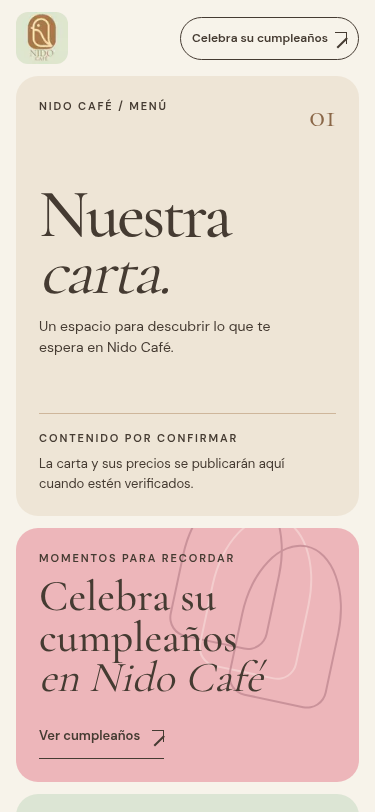
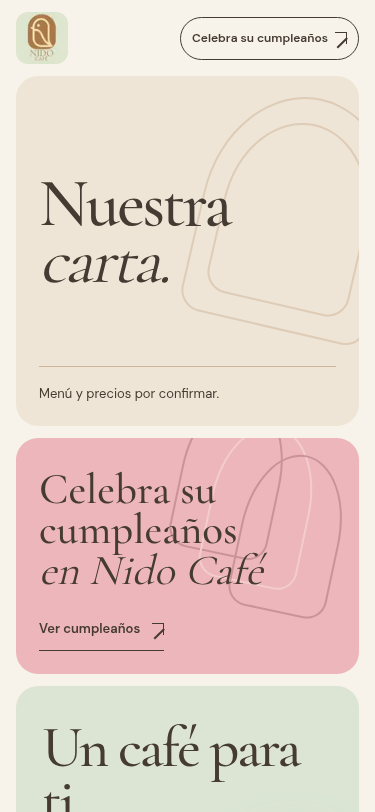
Simplify Nido homepage copy

diff --git a/app/globals.css b/app/globals.css
@@ -24,7 +24,7 @@ a:focus-visible { outline: 3px solid #49311f; outline-offset: 4px; border-radius
 .skip-link:focus { top: 8px; }
 .eyebrow { font-size: 11px; font-weight: 600; line-height: 1.4; letter-spacing: .17em; text-transform: uppercase; }
 h1, h2, p { margin-top: 0; }
-h1, h2, .intro-line, .footer-name { font-family: "Cormorant Garamond", Georgia, serif; font-weight: 500; }
+h1, h2, .footer-name { font-family: "Cormorant Garamond", Georgia, serif; font-weight: 500; }
 h1 em, h2 em { font-weight: 400; }
 
 .site-header { background: var(--cream); }
@@ -45,40 +45,27 @@ h1 em, h2 em { font-weight: 400; }
 .header-cta span[aria-hidden], .button span[aria-hidden], .text-link span[aria-hidden] { display: inline-block; position: relative; flex: 0 0 12px; width: 12px; height: 12px; border-top: 1.5px solid currentColor; border-right: 1.5px solid currentColor; font-size: 0; line-height: 0; }
 .header-cta span[aria-hidden]::after, .button span[aria-hidden]::after, .text-link span[aria-hidden]::after { content: ""; position: absolute; top: 4px; right: -1px; width: 14px; height: 1.5px; background: currentColor; transform: rotate(-45deg); transform-origin: right center; }
 
-.page-intro { min-height: 63px; display: flex; justify-content: space-between; align-items: center; }
-.page-intro p { margin: 0; }
-.intro-line { font-size: 25px; }
-.intro-line span { font-style: italic; }
-
 .mobile-menu, .mobile-hero-title { display: none; }
 
 .bento { display: grid; grid-template-columns: minmax(0, 1.75fr) minmax(330px, 1fr); grid-template-rows: repeat(2, minmax(280px, 304px)); gap: 15px; }
 .bento article { position: relative; overflow: hidden; border-radius: 26px; }
 .bento-main { grid-row: span 2; background: var(--sage); padding: clamp(32px, 4vw, 62px); display: flex; align-items: center; }
 .hero-copy { position: relative; z-index: 2; width: 65%; align-self: center; }
-.hero-copy .eyebrow { margin-bottom: 26px; }
-.hero-copy h1 { font-size: clamp(59px, 5.7vw, 94px); line-height: .91; letter-spacing: -.04em; margin-bottom: 25px; }
-.hero-copy h1 em { white-space: nowrap; }
-.hero-copy > p:not(.eyebrow) { max-width: 330px; font-size: 15px; line-height: 1.65; margin-bottom: 26px; }
+.hero-copy h1 { font-size: clamp(56px, 5vw, 78px); line-height: .91; letter-spacing: -.04em; margin-bottom: 0; }
+.hero-copy h1 em { white-space: normal; }
 .hero-art { position: absolute; right: -4%; top: 10%; height: 83%; width: 48%; transform: rotate(6deg); }
 .hero-art-frame { width: 100%; height: 100%; position: relative; overflow: hidden; border-radius: 49% 49% 28px 28px; box-shadow: 0 22px 50px #5c654b22; background: #e4ead9; }
 .hero-logo { object-fit: cover; object-position: center; transform: scale(1.15); }
-.hero-index { position: absolute; bottom: 25px; left: clamp(32px, 4vw, 62px); font-size: 10px; letter-spacing: .17em; font-weight: 600; }
-
 .bento-menu { background: #eee5d6; padding: 27px 30px 30px; display: flex; flex-direction: column; justify-content: space-between; }
-.card-top { display: flex; justify-content: space-between; align-items: start; position: relative; z-index: 1; }
-.card-top .eyebrow { max-width: 230px; }
 .menu-ornament { position: absolute; width: 200px; height: 200px; right: 8%; top: 16%; border: 1px solid #a77a5070; border-radius: 50% 50% 12px 12px; display: grid; place-items: center; transform: rotate(9deg); opacity: .6; }
 .menu-ornament::before { content: ""; position: absolute; inset: 17px; border: 1px solid #a77a5070; border-radius: inherit; }
 .menu-ornament span { font-family: "Cormorant Garamond", Georgia, serif; font-size: 120px; font-style: italic; color: var(--brown); line-height: 1; opacity: .7; }
-.card-bottom { position: relative; display: flex; justify-content: space-between; align-items: end; gap: 10px; }
-.card-bottom h2 { margin-bottom: 3px; font-size: clamp(40px, 3.6vw, 56px); line-height: .95; }
-.card-bottom p { font-size: 12px; margin: 0; max-width: 155px; line-height: 1.4; }
+.card-bottom { position: relative; display: flex; justify-content: space-between; align-items: end; gap: 10px; margin-top: auto; }
+.card-bottom h2 { margin-bottom: 0; font-size: clamp(40px, 3.6vw, 56px); line-height: .95; }
 .card-bottom .button { padding-inline: 17px; }
 
 .bento-birthday { background: var(--blush); padding: 32px; display: flex; align-items: end; }
 .birthday-content { position: relative; z-index: 1; max-width: 320px; }
-.birthday-content .eyebrow { margin-bottom: 10px; }
 .birthday-content h2 { font-size: clamp(39px, 3.35vw, 54px); line-height: .94; margin-bottom: 17px; }
 .birthday-content h2 em { display: block; }
 .birthday-mark { position: absolute; right: 6%; top: -34px; width: 190px; height: 200px; transform: rotate(12deg); opacity: .66; }
@@ -88,28 +75,24 @@ h1 em, h2 em { font-weight: 400; }
 .text-link { display: inline-flex; align-items: center; gap: 12px; min-height: 44px; border-bottom: 1px solid currentColor; font-size: 13px; font-weight: 600; }
 .text-link:hover { gap: 18px; }
 
-.story-section { padding-block: 104px 91px; display: grid; grid-template-columns: 1fr 1fr; gap: 60px; align-items: end; }
-.story-section h2 { font-size: clamp(56px, 6vw, 88px); max-width: 670px; line-height: .95; margin-bottom: 0; }
-.story-section > p { font-size: 17px; line-height: 1.8; max-width: 490px; margin: 0 0 5px auto; }
-.lower-grid { display: grid; grid-template-columns: 1fr 1fr; gap: 15px; margin-bottom: 96px; }
-.lower-card { min-height: 315px; border-radius: 26px; padding: 37px; display: flex; flex-direction: column; align-items: flex-start; }
+.lower-grid { display: grid; grid-template-columns: 1fr 1fr; gap: 15px; margin-block: 15px 96px; }
+.lower-card { position: relative; overflow: hidden; min-height: 270px; border-radius: 26px; padding: 37px; display: flex; flex-direction: column; align-items: flex-start; }
+.lower-card > * { position: relative; z-index: 1; }
+.lower-card::after { content: ""; position: absolute; width: 190px; height: 230px; right: 10%; top: 13%; border: 2px solid currentColor; border-radius: 50% 50% 24px 24px; transform: rotate(13deg); opacity: .18; }
 .lower-card h2 { font-size: clamp(46px, 4.5vw, 68px); line-height: .95; max-width: 400px; margin: auto 0 12px; }
-.lower-card p { font-size: 14px; max-width: 350px; line-height: 1.65; margin: 0; }
 .play-card { background: var(--tile); }
 .visit-card { background: #e9e0d1; }
 .visit-card .text-link { margin-top: 10px; }
 
 .site-footer { background: #e8e2d7; }
-.footer-inner { min-height: 156px; display: flex; justify-content: space-between; align-items: center; gap: 30px; }
+.footer-inner { min-height: 114px; display: flex; justify-content: space-between; align-items: center; gap: 30px; }
 .footer-name { font-size: 32px; margin-bottom: 0; }
-.footer-inner p:not(.footer-name) { font-size: 13px; margin: 0; }
 .footer-links { display: flex; gap: 26px; font-size: 13px; }
 
 .detail-page { min-height: calc(100svh - 252px); padding-block: 90px 110px; }
 .detail-page h1 { font-size: clamp(72px, 9vw, 130px); line-height: .9; margin: 20px 0; }
-.detail-lead { font-size: clamp(17px, 2vw, 22px); line-height: 1.5; max-width: 690px; }
 .pending-card { border-radius: 26px; background: var(--sage); padding: 32px; max-width: 690px; margin: 44px 0 32px; }
-.pending-card p { margin: 16px 0 0; line-height: 1.6; }
+.pending-card p { margin: 0; line-height: 1.6; }
 .pending-birthday { background: var(--blush); }
 
 @media (max-width: 1080px) {
@@ -133,18 +116,14 @@ h1 em, h2 em { font-weight: 400; }
   .header-cta { min-height: 43px; font-size: 12px; padding: 10px 14px; gap: 7px; }
   .header-menu-cta { display: none; }
   .header-birthday-cta { display: inline-flex; }
-  .page-intro { display: none; }
-  .mobile-menu { display: flex; flex-direction: column; min-height: 450px; margin-bottom: 12px; padding: 27px; background: #eee5d6; border-radius: 22px; }
-  .mobile-menu-top { display: flex; justify-content: space-between; align-items: start; }
-  .mobile-menu-top p { margin: 0; }
-  .mobile-menu-top > span { font-family: "Cormorant Garamond", Georgia, serif; font-size: 33px; line-height: 1; color: #8a6748; }
-  .mobile-menu-body { margin: auto 0; }
-  .mobile-menu-body h1 { font-size: clamp(65px, 13vw, 90px); line-height: .84; letter-spacing: -.04em; margin-bottom: 16px; }
+  .mobile-menu { position: relative; overflow: hidden; display: flex; flex-direction: column; min-height: 350px; margin-bottom: 12px; padding: 27px; background: #eee5d6; border-radius: 22px; }
+  .mobile-menu::before, .mobile-menu::after { content: ""; position: absolute; border: 2px solid #a77a50; border-radius: 50% 50% 22px 22px; transform: rotate(13deg); opacity: .23; }
+  .mobile-menu::before { width: 190px; height: 235px; right: -32px; top: 20px; }
+  .mobile-menu::after { width: 145px; height: 185px; right: -8px; top: 46px; }
+  .mobile-menu-body { position: relative; z-index: 1; margin: auto 0; }
+  .mobile-menu-body h1 { font-size: clamp(65px, 13vw, 90px); line-height: .84; letter-spacing: -.04em; margin-bottom: 0; }
   .mobile-menu-body h1 em { display: block; }
-  .mobile-menu-body > p { max-width: 250px; font-size: 14px; line-height: 1.5; margin: 0; }
-  .mobile-menu-pending { border-top: 1px solid #a77a5070; padding-top: 17px; }
-  .mobile-menu-pending .eyebrow { margin-bottom: 8px; }
-  .mobile-menu-pending p:last-child { max-width: 270px; margin: 0; font-size: 13px; line-height: 1.5; }
+  .mobile-menu-pending { position: relative; z-index: 1; border-top: 1px solid #a77a5070; padding-top: 17px; margin: 0; font-size: 13px; line-height: 1.5; }
   .bento { display: flex; flex-direction: column; gap: 12px; }
   .bento article { border-radius: 22px; }
   .bento-menu { display: none; }
@@ -156,28 +135,24 @@ h1 em, h2 em { font-weight: 400; }
   .bento-birthday { order: 1; min-height: 231px; padding: 23px; }
   .birthday-content h2 { font-size: 43px; max-width: 270px; }
   .birthday-mark { right: -2%; opacity: .36; }
-  .bento-main { order: 2; min-height: 430px; padding: 36px 26px; }
+  .bento-main { order: 2; min-height: 340px; padding: 36px 26px; }
   .hero-copy { width: 85%; align-self: start; }
-  .hero-copy .eyebrow { margin-bottom: 23px; }
   .hero-copy h1 { display: none; }
-  .mobile-hero-title { display: block; font-size: clamp(59px, 11vw, 86px); line-height: .91; letter-spacing: -.04em; margin-bottom: 25px; }
+  .mobile-hero-title { display: block; font-size: clamp(59px, 11vw, 86px); line-height: .91; letter-spacing: -.04em; margin-bottom: 0; }
   .hero-art { top: auto; bottom: -7%; right: -8%; height: 70%; width: 56%; opacity: .35; }
-  .hero-index { left: 26px; bottom: 20px; }
-  .story-section { display: block; padding-block: 75px 55px; }
-  .story-section h2 { font-size: 62px; margin-bottom: 22px; }
-  .story-section > p { font-size: 16px; margin: 0; }
-  .lower-grid { grid-template-columns: 1fr; gap: 12px; margin-bottom: 70px; }
-  .lower-card { min-height: 265px; padding: 27px; }
-  .lower-card h2 { font-size: 58px; }
+  .lower-grid { grid-template-columns: 1fr; gap: 12px; margin-block: 12px 70px; }
+  .lower-card { min-height: 220px; padding: 27px; }
+  .lower-card h2 { font-size: 55px; }
   .footer-inner { padding-block: 36px; display: block; }
   .footer-links { margin-top: 27px; flex-wrap: wrap; }
   .detail-page { padding-block: 64px 86px; }
+  .detail-page h1 { font-size: clamp(56px, 9vw, 82px); }
 }
 
 @media (max-width: 390px) {
   .brand img { width: 52px; height: 52px; }
   .header-cta { padding-inline: 11px; }
-  .mobile-menu { min-height: 440px; padding: 23px; }
+  .mobile-menu { min-height: 350px; padding: 23px; }
   .mobile-menu-body h1 { font-size: 68px; }
   .bento-birthday { min-height: 236px; }
   .mobile-hero-title { font-size: 58px; }

diff --git a/app/page.tsx b/app/page.tsx
@@ -4,51 +4,30 @@ import Link from "next/link";
 export default function HomePage() {
   return (
     <main id="contenido">
-      <div className="shell page-intro">
-        <p className="eyebrow">Un espacio para compartir</p>
-        <p className="intro-line">Café para ti. Juego para ellos. <span>Un momento para todos.</span></p>
-      </div>
-
       <section className="shell mobile-menu" aria-labelledby="mobile-menu-title">
-        <div className="mobile-menu-top">
-          <p className="eyebrow">Nido Café / Menú</p>
-          <span aria-hidden="true">01</span>
-        </div>
         <div className="mobile-menu-body">
           <h1 id="mobile-menu-title">Nuestra <em>carta.</em></h1>
-          <p>Un espacio para descubrir lo que te espera en Nido Café.</p>
         </div>
-        <div className="mobile-menu-pending">
-          <p className="eyebrow">Contenido por confirmar</p>
-          <p>La carta y sus precios se publicarán aquí cuando estén verificados.</p>
-        </div>
+        <p className="mobile-menu-pending">Menú y precios por confirmar.</p>
       </section>
 
       <section className="shell bento" aria-label="Nido Café: café y celebraciones">
         <article className="bento-main">
           <div className="hero-copy">
-            <p className="eyebrow">Bienvenidos a Nido Café</p>
             <h1 id="home-title">Un café para ti,<br /><em>diversión para ellos.</em></h1>
             <h2 className="mobile-hero-title">Un café para ti,<br /><em>diversión para ellos.</em></h2>
-            <p>Un espacio para encontrarse, disfrutar y dejar que la imaginación siga su curso.</p>
-            <Link className="button button-dark" href="#espacio">Conoce nuestro espacio <span aria-hidden="true">↗</span></Link>
           </div>
           <div className="hero-art" aria-hidden="true">
             <div className="hero-art-frame">
               <Image src="/Nido-logo-01.jpg" alt="" fill sizes="(max-width: 800px) 60vw, 28vw" priority className="hero-logo" />
             </div>
           </div>
-          <span className="hero-index" aria-hidden="true">01 / NIDO CAFÉ</span>
         </article>
 
         <article className="bento-menu">
-          <div className="card-top"><span className="eyebrow">El café también es protagonista</span></div>
           <div className="menu-ornament" aria-hidden="true"><span>N</span></div>
           <div className="card-bottom">
-            <div>
-              <h2>Nuestra <em>carta</em></h2>
-              <p>Algo rico para acompañar cada momento.</p>
-            </div>
+            <h2>Nuestra <em>carta</em></h2>
             <Link className="button button-outline" href="/carta">Ver la carta <span aria-hidden="true">↗</span></Link>
           </div>
         </article>
@@ -56,32 +35,21 @@ export default function HomePage() {
         <article className="bento-birthday">
           <div className="birthday-mark" aria-hidden="true"><span /><span /><span /></div>
           <div className="birthday-content">
-            <p className="eyebrow">Momentos para recordar</p>
             <h2>Celebra su cumpleaños <em>en Nido Café</em></h2>
             <Link className="text-link" href="/cumpleanos">Ver cumpleaños <span aria-hidden="true">↗</span></Link>
           </div>
         </article>
       </section>
 
-      <section className="shell story-section" id="espacio" aria-labelledby="space-title">
-        <div className="section-heading">
-          <p className="eyebrow">Una pausa para todos</p>
-          <h2 id="space-title">Un lugar para <em>estar juntos.</em></h2>
-        </div>
-        <p>En Nido Café se encuentran dos mundos: un momento de café para grandes y un espacio de juego para los más pequeños. Queremos que cada visita se sienta cercana, simple y especial.</p>
-      </section>
-
       <section className="shell lower-grid" aria-label="Más sobre Nido Café">
-        <div className="lower-card play-card">
-          <span className="eyebrow">Para los más pequeños</span>
-          <h2>El juego también <em>tiene su lugar.</em></h2>
-          <p>Pronto compartiremos más sobre el espacio de juegos.</p>
+        <div className="lower-card play-card" id="espacio">
+          <span className="eyebrow">Espacio de juegos</span>
+          <h2>Un lugar <em>para jugar.</em></h2>
         </div>
         <div className="lower-card visit-card" id="visitanos">
-          <span className="eyebrow">Ven a conocernos</span>
+          <span className="eyebrow">Santiago de Chile</span>
           <h2>Nos vemos <em>en Nido.</em></h2>
-          <p>Estamos en Santiago de Chile. Confirmaremos aquí la dirección y los horarios antes de publicar el sitio.</p>
-          <a className="text-link" href="https://www.instagram.com/nidocafe.play/" target="_blank" rel="noopener noreferrer">Visita nuestro Instagram <span aria-hidden="true">↗</span><span className="sr-only"> (abre en una nueva pestaña)</span></a>
+          <a className="text-link" href="https://www.instagram.com/nidocafe.play/" target="_blank" rel="noopener noreferrer">Instagram <span aria-hidden="true">↗</span><span className="sr-only"> (abre en una nueva pestaña)</span></a>
         </div>
       </section>
     </main>

diff --git a/app/cumpleanos/page.tsx b/app/cumpleanos/page.tsx
@@ -9,10 +9,8 @@ export const metadata: Metadata = {
 export default function BirthdaysPage() {
   return (
     <main id="contenido" className="shell detail-page">
-      <p className="eyebrow">Nido Café / Cumpleaños</p>
-      <h1>Momentos para <em>celebrar.</em></h1>
-      <p className="detail-lead">Un cumpleaños merece un lugar especial. Estamos reuniendo los detalles para contarte cómo celebrar en Nido Café.</p>
-      <div className="pending-card pending-birthday"><span className="eyebrow">Contenido por confirmar</span><p>Disponibilidad, condiciones y formas de contacto se publicarán cuando estén confirmadas.</p></div>
+      <h1>Cumpleaños <em>en Nido.</em></h1>
+      <div className="pending-card pending-birthday"><p>Detalles por confirmar.</p></div>
       <Link className="button button-dark" href="/">Volver al inicio <span aria-hidden="true">↗</span></Link>
     </main>
   );

diff --git a/app/carta/page.tsx b/app/carta/page.tsx
@@ -9,10 +9,8 @@ export const metadata: Metadata = {
 export default function MenuPage() {
   return (
     <main id="contenido" className="shell detail-page">
-      <p className="eyebrow">Nido Café / Carta</p>
       <h1>Nuestra <em>carta.</em></h1>
-      <p className="detail-lead">Estamos preparando este espacio para que puedas conocer la carta de Nido Café.</p>
-      <div className="pending-card"><span className="eyebrow">Contenido por confirmar</span><p>Publicaremos productos, precios y detalles cuando estén verificados.</p></div>
+      <div className="pending-card"><p>Menú y precios por confirmar.</p></div>
       <Link className="button button-dark" href="/">Volver al inicio <span aria-hidden="true">↗</span></Link>
     </main>
   );

diff --git a/app/layout.tsx b/app/layout.tsx
@@ -53,7 +53,6 @@ function Footer() {
       <div className="shell footer-inner">
         <div>
           <p className="footer-name">Nido Café</p>
-          <p>Un café para ti, diversión para ellos.</p>
         </div>
         <div className="footer-links">
           <Link href="/carta">Carta</Link>
